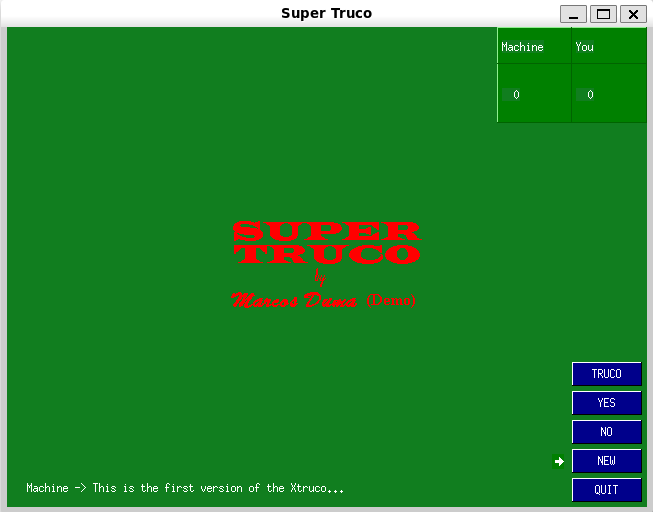
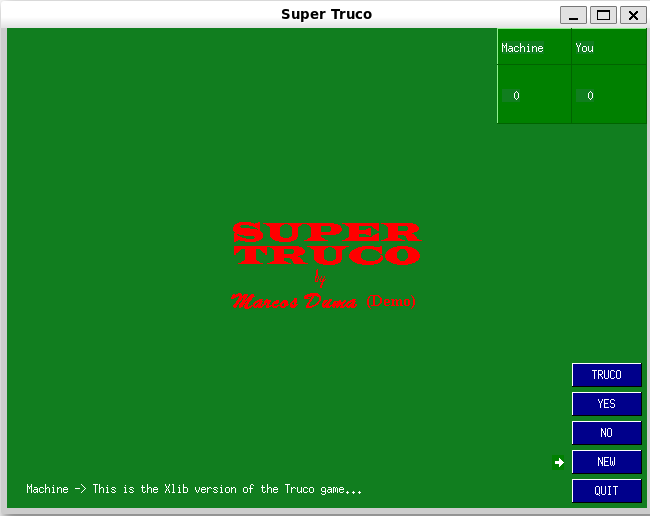
bmp

diff --git a/xtruco.c b/xtruco.c
@@ -812,7 +812,7 @@ int EventLoop( Display*display, Window window, Pixmap pixmap, GC gc, int *width,
     		   DrawScore(display, window, pixmap, gc, green_back, green_highlight, 
 						green_shadow, font_height, horiz, vert, score); 
 		    if(State==WAITING)
-				strcpy(Messa, "This is the first version of the Xtruco...");
+				strcpy(Messa, "This is the Xlib version of the Truco game...");
 		    TalkMachine( display, window, gc, Messa, 0 ); 
         	XFlush( display );
             break;
